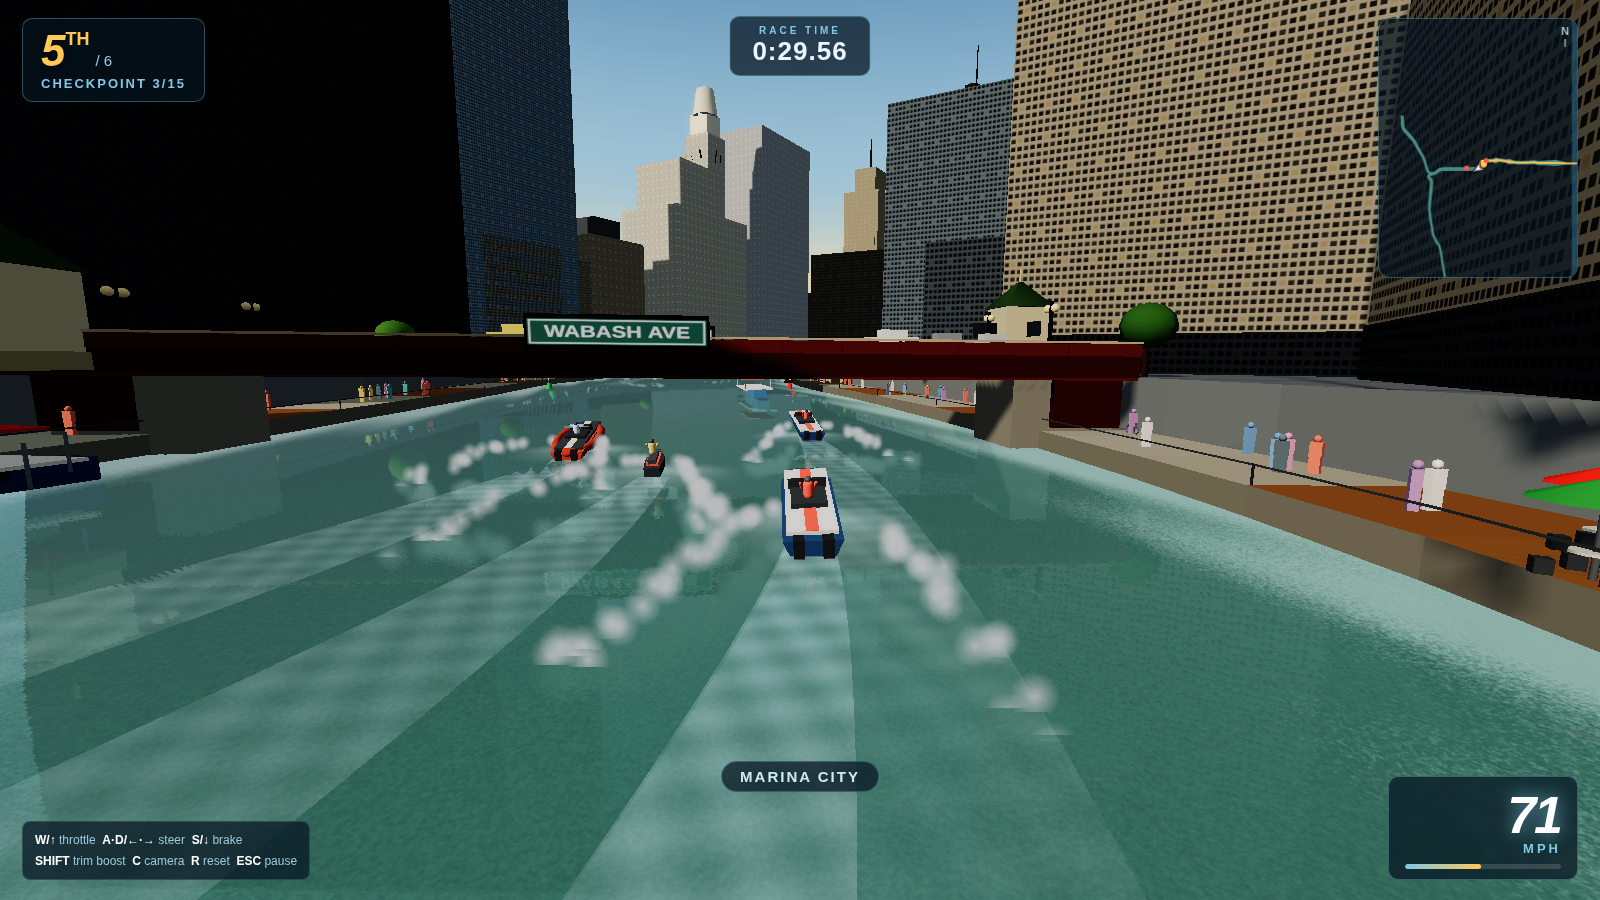
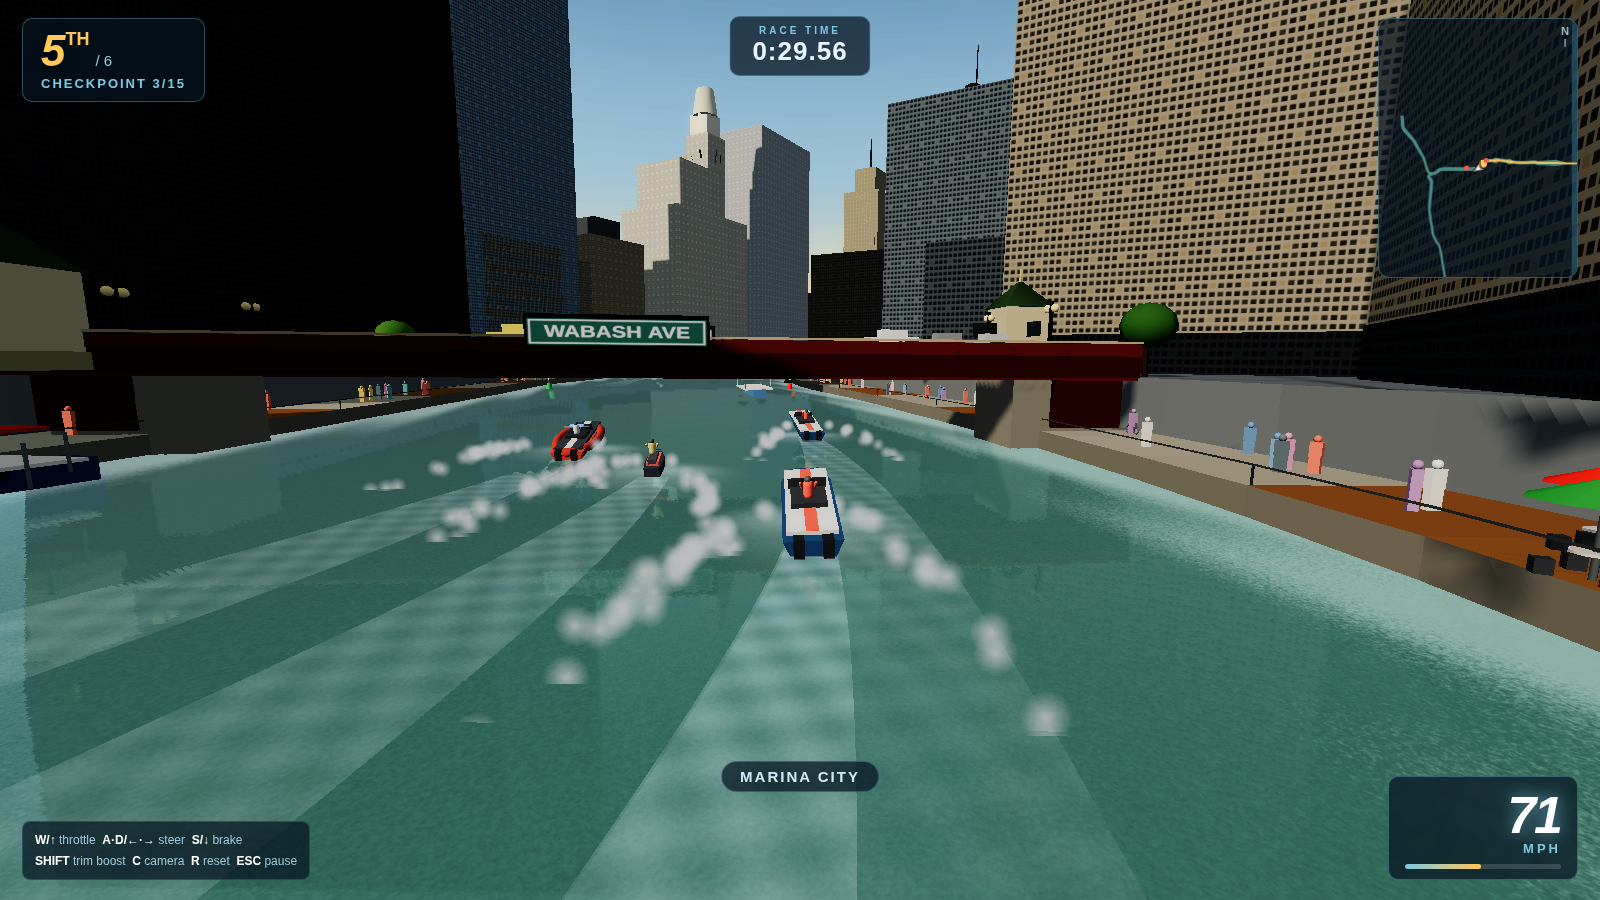
Performance + polish pass: lighter reflections, adaptive degradation, bug fixes
Runs smoother with no visible quality loss:
- Reflection pass now skips all the tiny/dynamic objects that don't meaningfully
  mirror (people, cyclists, cars, river traffic, spray, wakes, gulls, street
  furniture, umbrellas) via a render layer, and drops to half resolution — the
  rippled reflection hides it. Roughly halves the second scene render. Enabled the
  layer on the lights too so those objects stay correctly lit in the main view.
- Adaptive quality now degrades gently under sustained low FPS in order
  (resolution → reflections → bloom → shadows) and recovers with hysteresis, so
  weak machines stay smooth while strong machines keep everything on.

Bug fixes:
- Stop re-uploading the instance-colour buffer for the crowd every frame (colours
  are fixed) — set once.
- Clear stale bow-wave foam when returning to the menus (was frozen on the water).
- Added RRTest.pinQuality() so visual tests hold full quality on the software
  renderer.

Verified: crowds lit correctly, reflections intact, all four courses pass with
zero console errors; main render ~120 draw calls (frustum-culled).

Claude-Session: https://claude.ai/code/session_01EhbuAtRJA6oewV2GCpRd8x

Changed region(s): [[0.2188, 0.4667, 0.5, 0.7778], [0.5312, 0.56, 0.6875, 0.8089], [0.4688, 0.4356, 0.5625, 0.5289]]

diff --git a/play/RiverRacer.html b/play/RiverRacer.html
@@ -1530,7 +1530,8 @@ window.CHICAGO = {
 /* ===== js/core/engine.js ===== */
 /* River Racer — renderer, scene, main loop, adaptive quality */
 (function () {
-  const E = {};
+  const E = { SKIP_REFLECT: 1, autoQuality: true };
+  E.setAutoQuality = function (on) { E.autoQuality = on; };
   let renderer, scene, camera;
   let updateFns = [];
   let last = 0, simTime = 0, running = false;
@@ -1552,6 +1553,7 @@ window.CHICAGO = {
     scene = new THREE.Scene();
     camera = new THREE.PerspectiveCamera(62, window.innerWidth / window.innerHeight, 0.5, 9000);
     camera.position.set(0, 40, 120);
+    camera.layers.enable(E.SKIP_REFLECT);   // main view shows everything; the reflection cam skips layer 1
 
     // golden-hour key light from the west (sun low over the river canyon)
     const sun = new THREE.DirectionalLight(0xffdcae, 1.55);
@@ -1563,11 +1565,13 @@ window.CHICAGO = {
     sun.shadow.camera.top = 320; sun.shadow.camera.bottom = -320;
     sun.shadow.bias = -0.0004;
     sun.shadow.normalBias = 2.0;
+    sun.layers.enable(E.SKIP_REFLECT);      // lights must reach layer-1 objects too (layers gate illumination)
     scene.add(sun);
     scene.add(sun.target);
     E.sun = sun;
 
     const hemi = new THREE.HemisphereLight(0xcfe3f0, 0x44505c, 0.68);
+    hemi.layers.enable(E.SKIP_REFLECT);
     scene.add(hemi);
     E.hemi = hemi;
 
@@ -1621,13 +1625,19 @@ window.CHICAGO = {
     tick._p = now;
     fpsEMA = fpsEMA * 0.95 + Math.min(120, inst) * 0.05;
 
-    // adaptive resolution: hold 60fps on modest GPUs, restore sharpness when idle headroom exists
+    // adaptive quality: hold ~60fps on modest GPUs, restore full quality when there's headroom.
+    // Degrades gently in order (resolution → reflections → bloom → shadows) and recovers with hysteresis.
     qualityTimer += dt;
     if (qualityTimer > 1.5) {
       qualityTimer = 0;
-      if (fpsEMA < 47 && pixelScale > 0.55) { pixelScale = Math.max(0.55, pixelScale - 0.15); onResize(); }
-      else if (fpsEMA > 57 && pixelScale < 1) { pixelScale = Math.min(1, pixelScale + 0.1); onResize(); }
-      if (fpsEMA < 35 && renderer.shadowMap.enabled) { renderer.shadowMap.enabled = false; E.sun.castShadow = false; }
+      if (E.autoQuality) {
+        if (fpsEMA < 47 && pixelScale > 0.55) { pixelScale = Math.max(0.55, pixelScale - 0.15); onResize(); }
+        else if (fpsEMA > 57 && pixelScale < 1) { pixelScale = Math.min(1, pixelScale + 0.1); onResize(); }
+        if (RR.Reflect) { if (fpsEMA < 40 && RR.Reflect.enabled) RR.Reflect.enabled = false; else if (fpsEMA > 54 && !RR.Reflect.enabled) RR.Reflect.enabled = true; }
+        if (RR.Post) { if (fpsEMA < 32 && RR.Post.enabled) RR.Post.enabled = false; else if (fpsEMA > 50 && !RR.Post.enabled) RR.Post.enabled = true; }
+        if (fpsEMA < 26 && renderer.shadowMap.enabled) { renderer.shadowMap.enabled = false; E.sun.castShadow = false; }
+        else if (fpsEMA > 52 && !renderer.shadowMap.enabled) { renderer.shadowMap.enabled = true; E.sun.castShadow = true; }
+      }
     }
 
     if (warpBank > 0) {
@@ -1665,7 +1675,8 @@ window.CHICAGO = {
   const target = new THREE.Vector3();
   const textureMatrix = new THREE.Matrix4();
 
-  function size() { return [Math.max(256, (window.innerWidth * 0.75) | 0), Math.max(256, (window.innerHeight * 0.75) | 0)]; }
+  // half-res is plenty — the reflection is rippled and blended, so the cost saving is invisible
+  function size() { return [Math.max(256, (window.innerWidth * 0.5) | 0), Math.max(256, (window.innerHeight * 0.5) | 0)]; }
 
   R.init = function () {
     const [w, h] = size();
@@ -2873,6 +2884,7 @@ window.CHICAGO = {
     for (let i = 0; i < dressGeoms.length; i += 700) {
       const mesh = new THREE.Mesh(mergeGeoms(dressGeoms.slice(i, i + 700)), CITY.flatMaterial());
       mesh.castShadow = true;
+      mesh.layers.set(1);              // street furniture skips the reflection pass
       scene.add(mesh);
     }
   };
@@ -3113,17 +3125,18 @@ window.CHICAGO = {
     const scene = RR.Engine.scene;
     const flatMat = RR.City.flatMaterial();
     const wallMat = new THREE.MeshLambertMaterial({ vertexColors: true, side: THREE.DoubleSide });
-    const add = (arr, mat, cast) => {
+    const add = (arr, mat, cast, skipReflect) => {
       for (let i = 0; i < arr.length; i += 800) {
         const m = new THREE.Mesh(RR.City.mergeGeoms(arr.slice(i, i + 800)), mat);
         m.receiveShadow = true; if (cast) m.castShadow = true;
+        if (skipReflect) m.layers.set(1);
         scene.add(m);
       }
     };
     add(deck, flatMat, false);
     add(wall, wallMat, false);
     add(flat, flatMat, true);
-    add(bright, flatMat, true);
+    add(bright, flatMat, true, true);   // umbrellas/gardens skip the reflection pass
   };
 
   RR.Riverwalk = RW;
@@ -4179,12 +4192,15 @@ window.CHICAGO = {
       _m.compose(_p, _q, _s); people.setMatrixAt(idx, _m);
       people.setColorAt(idx, new THREE.Color(st.col));
     }
+    if (people.instanceColor) people.instanceColor.needsUpdate = true;   // colours are fixed — upload once
+    people.layers.set(1);
     scene.add(people);
 
     // cyclists get bikes (same transforms, updated together)
     bikes = new THREE.InstancedMesh(mergedBike(), new THREE.MeshLambertMaterial({ color: 0x2a2f36 }), Math.max(1, cyclists.length));
     bikes.instanceMatrix.setUsage(THREE.DynamicDrawUsage);
     bikeData = cyclists;
+    bikes.layers.set(1);
     scene.add(bikes);
 
     // ---------- cars crossing every (non-raised) bridge ----------
@@ -4209,6 +4225,8 @@ window.CHICAGO = {
     cars.castShadow = true;
     carData = carList;
     for (let i = 0; i < carList.length; i++) cars.setColorAt(i, new THREE.Color(carList[i].col));
+    if (cars.instanceColor) cars.instanceColor.needsUpdate = true;
+    cars.layers.set(1);
     scene.add(cars);
 
     // ---------- live river traffic: taxis, a tour boat, kayakers you weave past ----------
@@ -4243,7 +4261,7 @@ window.CHICAGO = {
           cab.position.set(0, 2.1, -1); g.add(cab);
         }
       }
-      g.traverse((o) => { if (o.isMesh) o.castShadow = true; });
+      g.traverse((o) => { if (o.isMesh) { o.castShadow = true; o.layers.set(1); } });
       RR.Engine.scene.add(g);
       return g;
     }
@@ -4283,7 +4301,6 @@ window.CHICAGO = {
       _m.compose(_p, _q, _s); people.setMatrixAt(i, _m);
     }
     people.instanceMatrix.needsUpdate = true;
-    if (people.instanceColor) people.instanceColor.needsUpdate = true;
 
     // bikes ride under their cyclist
     for (let i = 0; i < bikeData.length; i++) {
@@ -4884,6 +4901,7 @@ window.CHICAGO = {
     const mesh = new THREE.Mesh(geo, mat);
     mesh.frustumCulled = false;
     mesh.renderOrder = 2;
+    mesh.layers.set(1);              // skip in the reflection pass
     scene.add(mesh);
     return { mesh, geo, pts: [], mat };
   }
@@ -4938,6 +4956,7 @@ window.CHICAGO = {
     pPts = new THREE.Points(pGeo, mat);
     pPts.frustumCulled = false;
     pPts.renderOrder = 3;
+    pPts.layers.set(1);
     scene.add(pPts);
   }
 
@@ -4978,8 +4997,8 @@ window.CHICAGO = {
     for (let i = 0; i < 10; i++) {
       const g = new THREE.Group();
       const wingGeo = new THREE.PlaneGeometry(1.5, 0.4);
-      const L = new THREE.Mesh(wingGeo, mat); L.position.x = -0.7; g.add(L);
-      const Rw = new THREE.Mesh(wingGeo, mat); Rw.position.x = 0.7; g.add(Rw);
+      const L = new THREE.Mesh(wingGeo, mat); L.position.x = -0.7; L.layers.set(1); g.add(L);
+      const Rw = new THREE.Mesh(wingGeo, mat); Rw.position.x = 0.7; Rw.layers.set(1); g.add(Rw);
       const cx = RR.River.lakeWestX + 400 + Math.random() * 1200;
       const cz = RR.River.lakeShoreZTop + 200 + Math.random() * 800;
       gulls.push({ g, L, R: Rw, cx, cz, r: 30 + Math.random() * 60, h: 14 + Math.random() * 26, ph: Math.random() * 9, sp: 0.25 + Math.random() * 0.3 });
@@ -6842,6 +6861,7 @@ window.CHICAGO = {
   function update(dt, t) {
     if (RR.Life) RR.Life.update(dt, t);          // crowds + traffic animate in every scene
     if (mode === 'menu' || mode === 'results') {
+      if (RR.Water && RR.Water.material) RR.Water.material.uniforms.uNumBoats.value = 0;  // no stale foam
       // attract flythrough behind the menus
       const main = RR.River.paths.main;
       if (main) RR.Camera.flyover(dt, main);
@@ -6939,6 +6959,8 @@ window.CHICAGO = {
       window.RRTest._freecam = true;
     },
     clearCamera: () => { window.RRTest._freecam = false; },
+    // hold full quality (disable adaptive downgrade) — used by visual tests on the software renderer
+    pinQuality: () => { RR.Engine.setAutoQuality(false); if (RR.Reflect) RR.Reflect.enabled = true; if (RR.Post) RR.Post.enabled = true; },
     getState: () => ({
       scene: mode === 'menu' ? 'menu' : mode === 'results' ? 'results' : 'race',
       speed: player ? Math.hypot(player.vel.x, player.vel.z) : 0,

diff --git a/js/core/engine.js b/js/core/engine.js
@@ -1,6 +1,7 @@
 /* River Racer — renderer, scene, main loop, adaptive quality */
 (function () {
-  const E = {};
+  const E = { SKIP_REFLECT: 1, autoQuality: true };
+  E.setAutoQuality = function (on) { E.autoQuality = on; };
   let renderer, scene, camera;
   let updateFns = [];
   let last = 0, simTime = 0, running = false;
@@ -22,6 +23,7 @@
     scene = new THREE.Scene();
     camera = new THREE.PerspectiveCamera(62, window.innerWidth / window.innerHeight, 0.5, 9000);
     camera.position.set(0, 40, 120);
+    camera.layers.enable(E.SKIP_REFLECT);   // main view shows everything; the reflection cam skips layer 1
 
     // golden-hour key light from the west (sun low over the river canyon)
     const sun = new THREE.DirectionalLight(0xffdcae, 1.55);
@@ -33,11 +35,13 @@
     sun.shadow.camera.top = 320; sun.shadow.camera.bottom = -320;
     sun.shadow.bias = -0.0004;
     sun.shadow.normalBias = 2.0;
+    sun.layers.enable(E.SKIP_REFLECT);      // lights must reach layer-1 objects too (layers gate illumination)
     scene.add(sun);
     scene.add(sun.target);
     E.sun = sun;
 
     const hemi = new THREE.HemisphereLight(0xcfe3f0, 0x44505c, 0.68);
+    hemi.layers.enable(E.SKIP_REFLECT);
     scene.add(hemi);
     E.hemi = hemi;
 
@@ -91,13 +95,19 @@
     tick._p = now;
     fpsEMA = fpsEMA * 0.95 + Math.min(120, inst) * 0.05;
 
-    // adaptive resolution: hold 60fps on modest GPUs, restore sharpness when idle headroom exists
+    // adaptive quality: hold ~60fps on modest GPUs, restore full quality when there's headroom.
+    // Degrades gently in order (resolution → reflections → bloom → shadows) and recovers with hysteresis.
     qualityTimer += dt;
     if (qualityTimer > 1.5) {
       qualityTimer = 0;
-      if (fpsEMA < 47 && pixelScale > 0.55) { pixelScale = Math.max(0.55, pixelScale - 0.15); onResize(); }
-      else if (fpsEMA > 57 && pixelScale < 1) { pixelScale = Math.min(1, pixelScale + 0.1); onResize(); }
-      if (fpsEMA < 35 && renderer.shadowMap.enabled) { renderer.shadowMap.enabled = false; E.sun.castShadow = false; }
+      if (E.autoQuality) {
+        if (fpsEMA < 47 && pixelScale > 0.55) { pixelScale = Math.max(0.55, pixelScale - 0.15); onResize(); }
+        else if (fpsEMA > 57 && pixelScale < 1) { pixelScale = Math.min(1, pixelScale + 0.1); onResize(); }
+        if (RR.Reflect) { if (fpsEMA < 40 && RR.Reflect.enabled) RR.Reflect.enabled = false; else if (fpsEMA > 54 && !RR.Reflect.enabled) RR.Reflect.enabled = true; }
+        if (RR.Post) { if (fpsEMA < 32 && RR.Post.enabled) RR.Post.enabled = false; else if (fpsEMA > 50 && !RR.Post.enabled) RR.Post.enabled = true; }
+        if (fpsEMA < 26 && renderer.shadowMap.enabled) { renderer.shadowMap.enabled = false; E.sun.castShadow = false; }
+        else if (fpsEMA > 52 && !renderer.shadowMap.enabled) { renderer.shadowMap.enabled = true; E.sun.castShadow = true; }
+      }
     }
 
     if (warpBank > 0) {

diff --git a/js/world/life.js b/js/world/life.js
@@ -103,12 +103,15 @@
       _m.compose(_p, _q, _s); people.setMatrixAt(idx, _m);
       people.setColorAt(idx, new THREE.Color(st.col));
     }
+    if (people.instanceColor) people.instanceColor.needsUpdate = true;   // colours are fixed — upload once
+    people.layers.set(1);
     scene.add(people);
 
     // cyclists get bikes (same transforms, updated together)
     bikes = new THREE.InstancedMesh(mergedBike(), new THREE.MeshLambertMaterial({ color: 0x2a2f36 }), Math.max(1, cyclists.length));
     bikes.instanceMatrix.setUsage(THREE.DynamicDrawUsage);
     bikeData = cyclists;
+    bikes.layers.set(1);
     scene.add(bikes);
 
     // ---------- cars crossing every (non-raised) bridge ----------
@@ -133,6 +136,8 @@
     cars.castShadow = true;
     carData = carList;
     for (let i = 0; i < carList.length; i++) cars.setColorAt(i, new THREE.Color(carList[i].col));
+    if (cars.instanceColor) cars.instanceColor.needsUpdate = true;
+    cars.layers.set(1);
     scene.add(cars);
 
     // ---------- live river traffic: taxis, a tour boat, kayakers you weave past ----------
@@ -167,7 +172,7 @@
           cab.position.set(0, 2.1, -1); g.add(cab);
         }
       }
-      g.traverse((o) => { if (o.isMesh) o.castShadow = true; });
+      g.traverse((o) => { if (o.isMesh) { o.castShadow = true; o.layers.set(1); } });
       RR.Engine.scene.add(g);
       return g;
     }
@@ -207,7 +212,6 @@
       _m.compose(_p, _q, _s); people.setMatrixAt(i, _m);
     }
     people.instanceMatrix.needsUpdate = true;
-    if (people.instanceColor) people.instanceColor.needsUpdate = true;
 
     // bikes ride under their cyclist
     for (let i = 0; i < bikeData.length; i++) {

diff --git a/js/game/effects.js b/js/game/effects.js
@@ -38,6 +38,7 @@
     const mesh = new THREE.Mesh(geo, mat);
     mesh.frustumCulled = false;
     mesh.renderOrder = 2;
+    mesh.layers.set(1);              // skip in the reflection pass
     scene.add(mesh);
     return { mesh, geo, pts: [], mat };
   }
@@ -92,6 +93,7 @@
     pPts = new THREE.Points(pGeo, mat);
     pPts.frustumCulled = false;
     pPts.renderOrder = 3;
+    pPts.layers.set(1);
     scene.add(pPts);
   }
 
@@ -132,8 +134,8 @@
     for (let i = 0; i < 10; i++) {
       const g = new THREE.Group();
       const wingGeo = new THREE.PlaneGeometry(1.5, 0.4);
-      const L = new THREE.Mesh(wingGeo, mat); L.position.x = -0.7; g.add(L);
-      const Rw = new THREE.Mesh(wingGeo, mat); Rw.position.x = 0.7; g.add(Rw);
+      const L = new THREE.Mesh(wingGeo, mat); L.position.x = -0.7; L.layers.set(1); g.add(L);
+      const Rw = new THREE.Mesh(wingGeo, mat); Rw.position.x = 0.7; Rw.layers.set(1); g.add(Rw);
       const cx = RR.River.lakeWestX + 400 + Math.random() * 1200;
       const cz = RR.River.lakeShoreZTop + 200 + Math.random() * 800;
       gulls.push({ g, L, R: Rw, cx, cz, r: 30 + Math.random() * 60, h: 14 + Math.random() * 26, ph: Math.random() * 9, sp: 0.25 + Math.random() * 0.3 });

diff --git a/js/main.js b/js/main.js
@@ -148,6 +148,7 @@
   function update(dt, t) {
     if (RR.Life) RR.Life.update(dt, t);          // crowds + traffic animate in every scene
     if (mode === 'menu' || mode === 'results') {
+      if (RR.Water && RR.Water.material) RR.Water.material.uniforms.uNumBoats.value = 0;  // no stale foam
       // attract flythrough behind the menus
       const main = RR.River.paths.main;
       if (main) RR.Camera.flyover(dt, main);
@@ -245,6 +246,8 @@
       window.RRTest._freecam = true;
     },
     clearCamera: () => { window.RRTest._freecam = false; },
+    // hold full quality (disable adaptive downgrade) — used by visual tests on the software renderer
+    pinQuality: () => { RR.Engine.setAutoQuality(false); if (RR.Reflect) RR.Reflect.enabled = true; if (RR.Post) RR.Post.enabled = true; },
     getState: () => ({
       scene: mode === 'menu' ? 'menu' : mode === 'results' ? 'results' : 'race',
       speed: player ? Math.hypot(player.vel.x, player.vel.z) : 0,

diff --git a/js/world/riverwalk.js b/js/world/riverwalk.js
@@ -228,17 +228,18 @@
     const scene = RR.Engine.scene;
     const flatMat = RR.City.flatMaterial();
     const wallMat = new THREE.MeshLambertMaterial({ vertexColors: true, side: THREE.DoubleSide });
-    const add = (arr, mat, cast) => {
+    const add = (arr, mat, cast, skipReflect) => {
       for (let i = 0; i < arr.length; i += 800) {
         const m = new THREE.Mesh(RR.City.mergeGeoms(arr.slice(i, i + 800)), mat);
         m.receiveShadow = true; if (cast) m.castShadow = true;
+        if (skipReflect) m.layers.set(1);
         scene.add(m);
       }
     };
     add(deck, flatMat, false);
     add(wall, wallMat, false);
     add(flat, flatMat, true);
-    add(bright, flatMat, true);
+    add(bright, flatMat, true, true);   // umbrellas/gardens skip the reflection pass
   };
 
   RR.Riverwalk = RW;

diff --git a/js/core/reflect.js b/js/core/reflect.js
@@ -13,7 +13,8 @@
   const target = new THREE.Vector3();
   const textureMatrix = new THREE.Matrix4();
 
-  function size() { return [Math.max(256, (window.innerWidth * 0.75) | 0), Math.max(256, (window.innerHeight * 0.75) | 0)]; }
+  // half-res is plenty — the reflection is rippled and blended, so the cost saving is invisible
+  function size() { return [Math.max(256, (window.innerWidth * 0.5) | 0), Math.max(256, (window.innerHeight * 0.5) | 0)]; }
 
   R.init = function () {
     const [w, h] = size();

diff --git a/js/world/city.js b/js/world/city.js
@@ -447,6 +447,7 @@
     for (let i = 0; i < dressGeoms.length; i += 700) {
       const mesh = new THREE.Mesh(mergeGeoms(dressGeoms.slice(i, i + 700)), CITY.flatMaterial());
       mesh.castShadow = true;
+      mesh.layers.set(1);              // street furniture skips the reflection pass
       scene.add(mesh);
     }
   };
